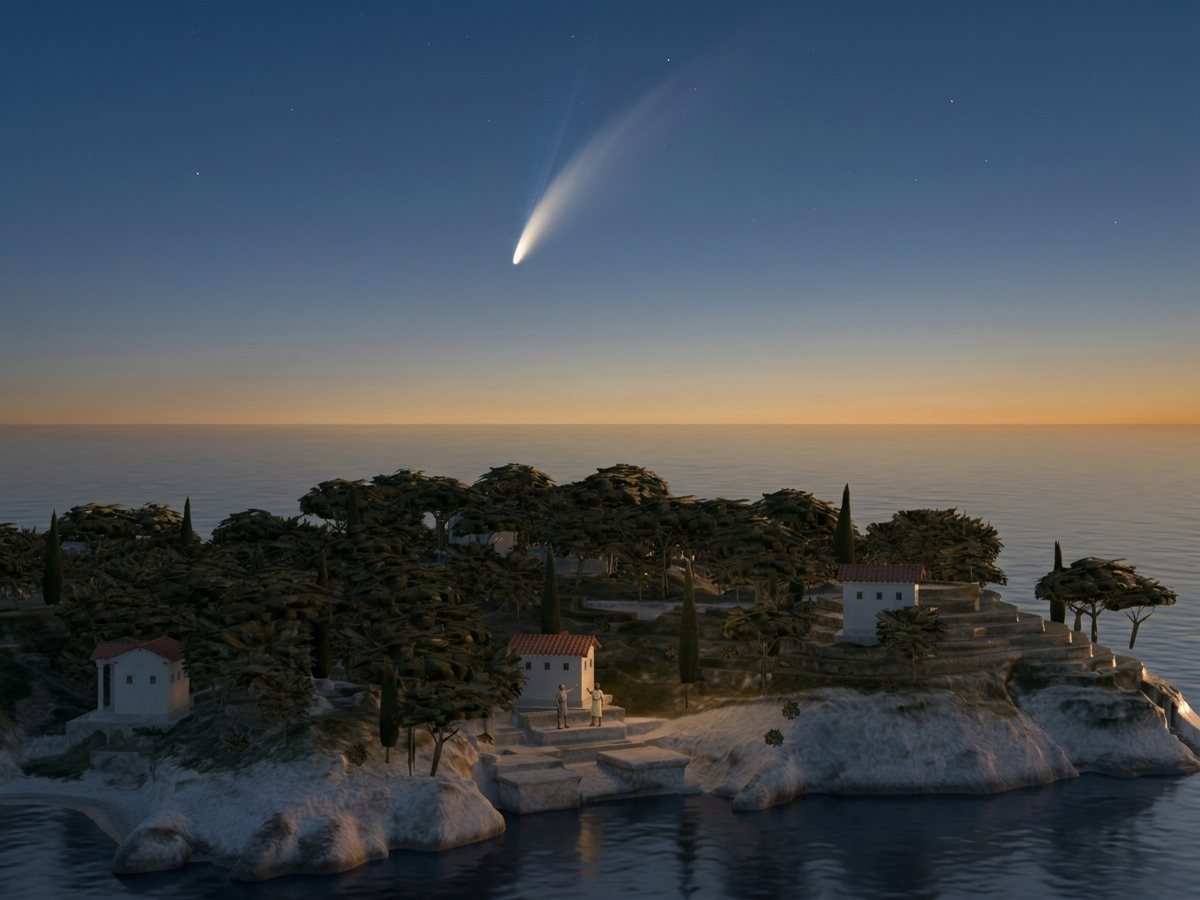
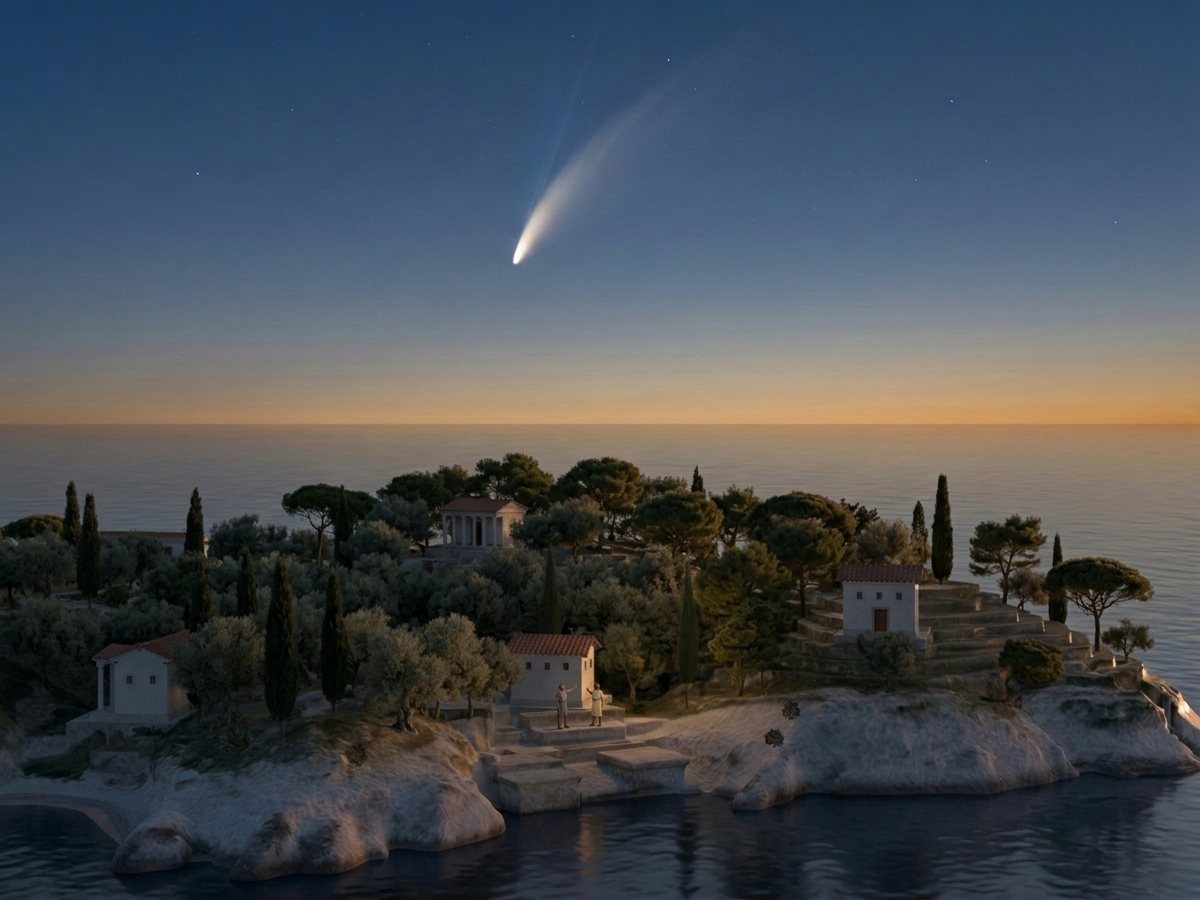
Changes That Never Clash: the comet picture's trees made real by a one-change edit.
The first scene's pines, olives and cypresses looked like faceted models. The scene was edited through Gemini (Nano Banana 2) with the old scene as [image 1] and p01-coast's daylight photograph as [image 2], changing only the trees; sky, comet, sea, rocks, libraries and the two figures stay as they were. The thinner foliage now shows a library at the back that the trees hid, drawn with a wider columned porch than the model's two columns. The first scene is kept beside it as scene-v1.png (local). Republished to R2 by art/web/images.py; the alt text says "small libraries" and names the olives.

Claude-Session: https://claude.ai/code/session_01RMnZDPCu2y8wsaY82kWLd5

diff --git a/books/changes-that-never-clash/index.html b/books/changes-that-never-clash/index.html
@@ -111,7 +111,7 @@
         <p class="lede"><span class="i">The compendium's entry on the comet, the long-haired star now in the evening sky, says what the comet is, how many times it has been seen, and which other entries to read beside it. Library 1 records a new sighting of the comet in the same hour as Library 2 rewrites the account of what it is. Neither has heard of the other's change.</span><span class="m">Take one value with independent parts: a count, a description and a set of links. Replica 1 increments the count at the same time as Replica 2 rewrites the description. Neither has received the other's update.</span></p>
         <p><span class="i">The coast's plain rule treats an entry as one thing: of two versions, the one with the larger tally stands.<sup class="xref"><a href="../spreading-by-word-of-mouth/index.html" title="Spreading by Word of Mouth">*</a></sup> Here it keeps Library 2's version and throws away Library 1's sighting, although the two changes touched different parts of the entry. Keeping both versions instead leaves a scholar to merge them by hand, at every library that receives the two.</span><span class="m">The plain rule treats the whole value as one register: of two versions, the one with the larger timestamp wins.<sup class="xref"><a href="../spreading-by-word-of-mouth/index.html" title="Spreading by Word of Mouth">*</a></sup> Here it keeps Replica 2's version and loses Replica 1's increment, although the two updates touched different parts. Keeping both versions instead leaves someone to merge them by hand, at every replica that receives the two.</span></p>
       </div>
-      <div class="pop fromright i"><div class="leaf"><div class="photo tilt-r" style="aspect-ratio:4/3"><img src="https://pub-c335d307e76c41618eb522e0049e35e2.r2.dev/changes-that-never-clash-p05-comet-37c4f62ff9-800.avif" srcset="https://pub-c335d307e76c41618eb522e0049e35e2.r2.dev/changes-that-never-clash-p05-comet-37c4f62ff9-400.avif 400w, https://pub-c335d307e76c41618eb522e0049e35e2.r2.dev/changes-that-never-clash-p05-comet-37c4f62ff9-800.avif 800w, https://pub-c335d307e76c41618eb522e0049e35e2.r2.dev/changes-that-never-clash-p05-comet-37c4f62ff9-1200.avif 1200w" sizes="(max-width: 700px) 90vw, 560px" data-local="img/p05-comet.jpg" alt="The west shore of the scholars' coast at dusk seen from the sea: a bright comet with a long pale curving tail high in the twilight sky over a calm sea, three small libraries with red tiled roofs among dark pines and cypresses above white rocks, and on the steps of the middle one two small figures looking up, one pointing" loading="lazy"></div></div></div>
+      <div class="pop fromright i"><div class="leaf"><div class="photo tilt-r" style="aspect-ratio:4/3"><img src="https://pub-c335d307e76c41618eb522e0049e35e2.r2.dev/changes-that-never-clash-p05-comet-61a939024e-800.avif" srcset="https://pub-c335d307e76c41618eb522e0049e35e2.r2.dev/changes-that-never-clash-p05-comet-61a939024e-400.avif 400w, https://pub-c335d307e76c41618eb522e0049e35e2.r2.dev/changes-that-never-clash-p05-comet-61a939024e-800.avif 800w, https://pub-c335d307e76c41618eb522e0049e35e2.r2.dev/changes-that-never-clash-p05-comet-61a939024e-1200.avif 1200w" sizes="(max-width: 700px) 90vw, 560px" data-local="img/p05-comet.jpg" alt="The west shore of the scholars' coast at dusk seen from the sea: a bright comet with a long pale curving tail high in the twilight sky over a calm sea, small libraries with red tiled roofs among pines, olives and cypresses above white rocks, and on the steps of the middle one two small figures looking up, one pointing" loading="lazy"></div></div></div>
     </div>
     <div class="cards3 pair">
       <div class="pop"><div class="leaf paper card3"><div class="body"><div class="num">The plain rule</div><h3><span class="i">The larger tally stands</span><span class="m">The larger timestamp wins</span></h3><p><span class="i">Every library ends with Library 2's version. The sighting is lost, and nothing in the entry shows that it was ever recorded.</span><span class="m">Every replica ends with Replica 2's version. The increment is lost, and nothing in the state shows that it was ever made.</span></p></div></div></div>

diff --git a/art/scroll/parts/changes-that-never-clash/body.html b/art/scroll/parts/changes-that-never-clash/body.html
@@ -59,7 +59,7 @@
         <p class="lede"><span class="i">The compendium's entry on the comet, the long-haired star now in the evening sky, says what the comet is, how many times it has been seen, and which other entries to read beside it. Library 1 records a new sighting of the comet in the same hour as Library 2 rewrites the account of what it is. Neither has heard of the other's change.</span><span class="m">Take one value with independent parts: a count, a description and a set of links. Replica 1 increments the count at the same time as Replica 2 rewrites the description. Neither has received the other's update.</span></p>
         <p><span class="i">The coast's plain rule treats an entry as one thing: of two versions, the one with the larger tally stands.<sup class="xref"><a href="../spreading-by-word-of-mouth/index.html" title="Spreading by Word of Mouth">*</a></sup> Here it keeps Library 2's version and throws away Library 1's sighting, although the two changes touched different parts of the entry. Keeping both versions instead leaves a scholar to merge them by hand, at every library that receives the two.</span><span class="m">The plain rule treats the whole value as one register: of two versions, the one with the larger timestamp wins.<sup class="xref"><a href="../spreading-by-word-of-mouth/index.html" title="Spreading by Word of Mouth">*</a></sup> Here it keeps Replica 2's version and loses Replica 1's increment, although the two updates touched different parts. Keeping both versions instead leaves someone to merge them by hand, at every replica that receives the two.</span></p>
       </div>
-      <div class="pop fromright i"><div class="leaf"><div class="photo tilt-r" style="aspect-ratio:4/3"><img src="https://pub-c335d307e76c41618eb522e0049e35e2.r2.dev/changes-that-never-clash-p05-comet-37c4f62ff9-800.avif" srcset="https://pub-c335d307e76c41618eb522e0049e35e2.r2.dev/changes-that-never-clash-p05-comet-37c4f62ff9-400.avif 400w, https://pub-c335d307e76c41618eb522e0049e35e2.r2.dev/changes-that-never-clash-p05-comet-37c4f62ff9-800.avif 800w, https://pub-c335d307e76c41618eb522e0049e35e2.r2.dev/changes-that-never-clash-p05-comet-37c4f62ff9-1200.avif 1200w" sizes="(max-width: 700px) 90vw, 560px" data-local="img/p05-comet.jpg" alt="The west shore of the scholars' coast at dusk seen from the sea: a bright comet with a long pale curving tail high in the twilight sky over a calm sea, three small libraries with red tiled roofs among dark pines and cypresses above white rocks, and on the steps of the middle one two small figures looking up, one pointing" loading="lazy"></div></div></div>
+      <div class="pop fromright i"><div class="leaf"><div class="photo tilt-r" style="aspect-ratio:4/3"><img src="https://pub-c335d307e76c41618eb522e0049e35e2.r2.dev/changes-that-never-clash-p05-comet-61a939024e-800.avif" srcset="https://pub-c335d307e76c41618eb522e0049e35e2.r2.dev/changes-that-never-clash-p05-comet-61a939024e-400.avif 400w, https://pub-c335d307e76c41618eb522e0049e35e2.r2.dev/changes-that-never-clash-p05-comet-61a939024e-800.avif 800w, https://pub-c335d307e76c41618eb522e0049e35e2.r2.dev/changes-that-never-clash-p05-comet-61a939024e-1200.avif 1200w" sizes="(max-width: 700px) 90vw, 560px" data-local="img/p05-comet.jpg" alt="The west shore of the scholars' coast at dusk seen from the sea: a bright comet with a long pale curving tail high in the twilight sky over a calm sea, small libraries with red tiled roofs among pines, olives and cypresses above white rocks, and on the steps of the middle one two small figures looking up, one pointing" loading="lazy"></div></div></div>
     </div>
     <div class="cards3 pair">
       <div class="pop"><div class="leaf paper card3"><div class="body"><div class="num">The plain rule</div><h3><span class="i">The larger tally stands</span><span class="m">The larger timestamp wins</span></h3><p><span class="i">Every library ends with Library 2's version. The sighting is lost, and nothing in the entry shows that it was ever recorded.</span><span class="m">Every replica ends with Replica 2's version. The increment is lost, and nothing in the state shows that it was ever made.</span></p></div></div></div>
